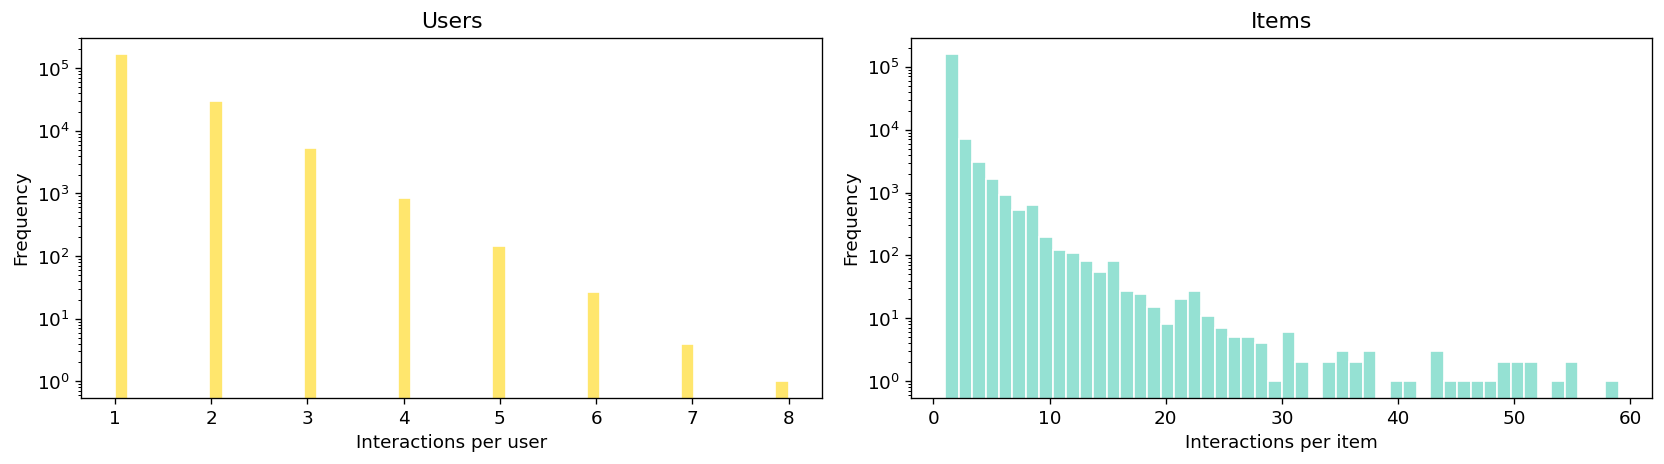
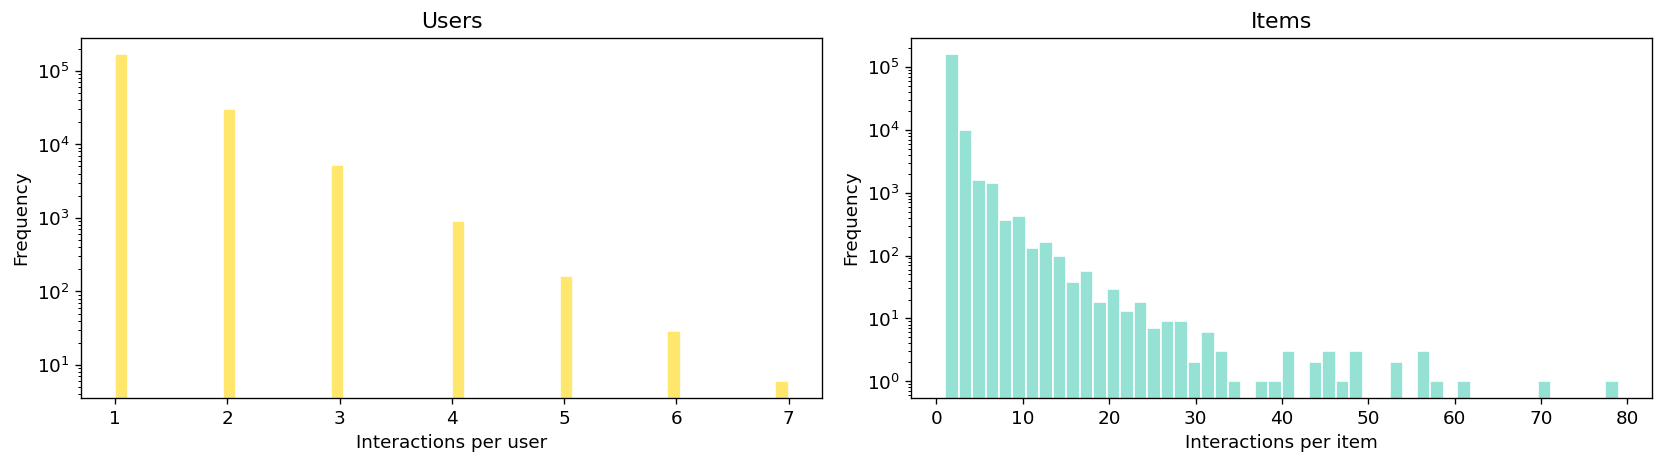
feat: expand train-val split EDA with statistical tests and comparative visualizations

diff --git a/data/preprocess/eda.py b/data/preprocess/eda.py
@@ -4,6 +4,7 @@ import matplotlib
 
 matplotlib.use("Agg")
 import matplotlib.pyplot as plt
+from scipy.stats import ks_2samp
 
 from .utils import timer, ensure_dir
 from .config import EDA_DIR, TRAIN_PATH, VAL_PATH
@@ -13,7 +14,7 @@ plt.rcParams["figure.figsize"] = (10, 5)
 plt.rcParams["font.size"] = 11
 
 SEP = "\u2500" * 50
-COLORS = ["#4ECDC4", "#FF6B6B", "#FFE66D", "#95E1D3"]
+COLORS = ["#4ECDC4", "#FF6B6B", "#FFE66D", "#95E1D3", "#A8E6CF"]
 
 
 def _load():
@@ -130,16 +131,117 @@ def run():
 
     # ── 4. Compare train vs val ──
     print(f"\n{SEP}")
-    print("  4. Train vs Val")
+    print("  4. Train vs Val Split Quality")
     print(SEP)
+
+    # ── 4a. Basic metrics ──
     user_overlap = len(set(train["UserId"].unique()) & set(val["UserId"].unique()))
-    print(f"\n  {'Metric':<25} {'Train':>12} {'Val':>12}")
-    print(f"  {'-'*25} {'-'*12} {'-'*12}")
-    print(f"  {'Rows':<25} {len(train):>12,} {len(val):>12,}")
-    print(f"  {'Users':<25} {train['UserId'].nunique():>12,} {val['UserId'].nunique():>12,}")
-    print(f"  {'Items':<25} {train['ItemId'].nunique():>12,} {val['ItemId'].nunique():>12,}")
-    print(f"  {'Label mean':<25} {train['Label'].mean():>12.4f} {val['Label'].mean():>12.4f}")
-    print(f"  {'User overlap':<25} {user_overlap:>12,} ({user_overlap / val['UserId'].nunique() * 100:.1f}% of val)")
+    train_items_set = set(train["ItemId"].unique())
+    val_items_set = set(val["ItemId"].unique())
+    item_overlap = len(train_items_set & val_items_set)
+    val_items_unseen = len(val_items_set - train_items_set)
+
+    print(f"\n  {'Metric':<30} {'Train':>12} {'Val':>12} {'Diff':>10}")
+    print(f"  {'-'*30} {'-'*12} {'-'*12} {'-'*10}")
+    print(f"  {'Rows':<30} {len(train):>12,} {len(val):>12,} {'—':>10}")
+    print(f"  {'Users':<30} {train['UserId'].nunique():>12,} {val['UserId'].nunique():>12,} {'—':>10}")
+    print(f"  {'Items':<30} {len(train_items_set):>12,} {len(val_items_set):>12,} {'—':>10}")
+    print(f"  {'Label mean':<30} {train['Label'].mean():>12.4f} {val['Label'].mean():>12.4f} {abs(train['Label'].mean() - val['Label'].mean()):>10.4f}")
+    print(f"  {'Label std':<30} {train['Label'].std():>12.4f} {val['Label'].std():>12.4f} {abs(train['Label'].std() - val['Label'].std()):>10.4f}")
+    print(f"  {'Label p50 (median)':<30} {train['Label'].median():>12.4f} {val['Label'].median():>12.4f} {abs(train['Label'].median() - val['Label'].median()):>10.4f}")
+    print(f"  {'Label p90':<30} {train['Label'].quantile(0.9):>12.4f} {val['Label'].quantile(0.9):>12.4f} {abs(train['Label'].quantile(0.9) - val['Label'].quantile(0.9)):>10.4f}")
+    ks_stat, ks_pval = ks_2samp(train["Label"], val["Label"])
+    print(f"  {'KS test stat (p)':<30} {'':>12} {ks_stat:.4f} ({ks_pval:.4f}) {'':>10}")
+    print(f"  {'User overlap':<30} {'':>12} {user_overlap:,} ({user_overlap / val['UserId'].nunique() * 100:.1f}% of val)")
+    print(f"  {'Item overlap':<30} {'':>12} {item_overlap:,} ({item_overlap / len(val_items_set) * 100:.1f}% of val)")
+    print(f"  {'Val items unseen':<30} {'':>12} {val_items_unseen:,} ({val_items_unseen / len(val_items_set) * 100:.1f}%)")
+
+    # ── 4b. User behavior profile ──
+    print(f"\n  User profile (by # interactions):")
+    def user_profile(df):
+        counts = df.groupby("UserId").size()
+        return pd.Series({
+            "1-timer": (counts == 1).sum(),
+            "light (2-3)": ((counts >= 2) & (counts <= 3)).sum(),
+            "medium (4-5)": ((counts >= 4) & (counts <= 5)).sum(),
+            "heavy (>5)": (counts > 5).sum(),
+        })
+    train_profile = user_profile(train)
+    val_profile = user_profile(val)
+    print(f"  {'Category':<20} {'Train':>10} {'Val':>10} {'Diff':>10}")
+    print(f"  {'-'*20} {'-'*10} {'-'*10} {'-'*10}")
+    for cat in train_profile.index:
+        tp = train_profile[cat] / len(train["UserId"].unique()) * 100
+        vp = val_profile[cat] / len(val["UserId"].unique()) * 100
+        print(f"  {cat:<20} {tp:>9.1f}% {vp:>9.1f}% {abs(tp - vp):>9.1f}%")
+
+    # ── 4c. Item popularity profile ──
+    print(f"\n  Item profile (by # users in train):")
+    train_item_pop = train.groupby("ItemId").size()
+    def item_pop_bucket(n):
+        if n == 1: return "1 user"
+        elif n <= 5: return "2-5 users"
+        elif n <= 20: return "6-20 users"
+        else: return ">20 users"
+    item_buckets = train_item_pop.map(item_pop_bucket).value_counts()
+    for bucket in ["1 user", "2-5 users", "6-20 users", ">20 users"]:
+        cnt = item_buckets.get(bucket, 0)
+        print(f"    {bucket:<15}: {cnt:>6,} items ({cnt / len(train_item_pop) * 100:.1f}%)")
+
+    # ── 4d. Temporal distribution ──
+    print(f"\n  Temporal distribution by day:")
+    train_daily = train.assign(_day=pd.to_datetime(train["Timestamp"], unit="s").dt.date).groupby("_day").size()
+    val_daily = val.assign(_day=pd.to_datetime(val["Timestamp"], unit="s").dt.date).groupby("_day").size()
+    all_days = sorted(set(list(train_daily.index) + list(val_daily.index)))
+    print(f"  {'Date':<15} {'Train':>8} {'Val':>8}")
+    print(f"  {'-'*15} {'-'*8} {'-'*8}")
+    for d in all_days:
+        print(f"  {str(d):<15} {train_daily.get(d, 0):>8,} {val_daily.get(d, 0):>8,}")
+
+    # Chart: Overlay label distribution
+    fig, ax = plt.subplots(figsize=(10, 5))
+    ax.hist(train["Label"], bins=40, alpha=0.6, color=COLORS[0], label=f"Train (mean={train['Label'].mean():.3f})")
+    ax.hist(val["Label"], bins=40, alpha=0.6, color=COLORS[1], label=f"Val (mean={val['Label'].mean():.3f})")
+    ax.set_xlabel("Label")
+    ax.set_ylabel("Count")
+    ax.set_title("Label Distribution: Train vs Val")
+    ax.legend()
+    ax.set_yscale("log")
+    fig.savefig(EDA_DIR / "label_comparison.png", bbox_inches="tight")
+    plt.close()
+    print(f"\n  -> Saved label_comparison.png")
+
+    # Chart: User profile comparison
+    fig, ax = plt.subplots(figsize=(8, 4))
+    cats = list(train_profile.index)
+    x = np.arange(len(cats))
+    w = 0.35
+    train_pct = [train_profile[c] / len(train["UserId"].unique()) * 100 for c in cats]
+    val_pct = [val_profile[c] / len(val["UserId"].unique()) * 100 for c in cats]
+    ax.bar(x - w/2, train_pct, w, color=COLORS[0], label="Train")
+    ax.bar(x + w/2, val_pct, w, color=COLORS[1], label="Val")
+    ax.set_xticks(x)
+    ax.set_xticklabels(cats)
+    ax.set_ylabel("% of users")
+    ax.set_title("User Profile: Train vs Val")
+    ax.legend()
+    fig.savefig(EDA_DIR / "user_profile_comparison.png", bbox_inches="tight")
+    plt.close()
+    print(f"  -> Saved user_profile_comparison.png")
+
+    # Chart: Temporal distribution
+    fig, ax = plt.subplots(figsize=(12, 4))
+    tmp = pd.concat([train.assign(_s="train"), val.assign(_s="val")])
+    tmp["_day"] = pd.to_datetime(tmp["Timestamp"], unit="s").dt.date
+    pivot = tmp.groupby(["_day", "_s"]).size().unstack(fill_value=0)
+    pivot.plot(kind="bar", ax=ax, color=[COLORS[0], COLORS[1]])
+    ax.set_xlabel("Date")
+    ax.set_ylabel("Rows")
+    ax.set_title("Samples per Day: Train vs Val")
+    ax.legend()
+    fig.savefig(EDA_DIR / "temporal_comparison.png", bbox_inches="tight")
+    plt.close()
+    print(f"  -> Saved temporal_comparison.png")
 
     # ── 5. Summary ──
     print(f"\n{SEP}")